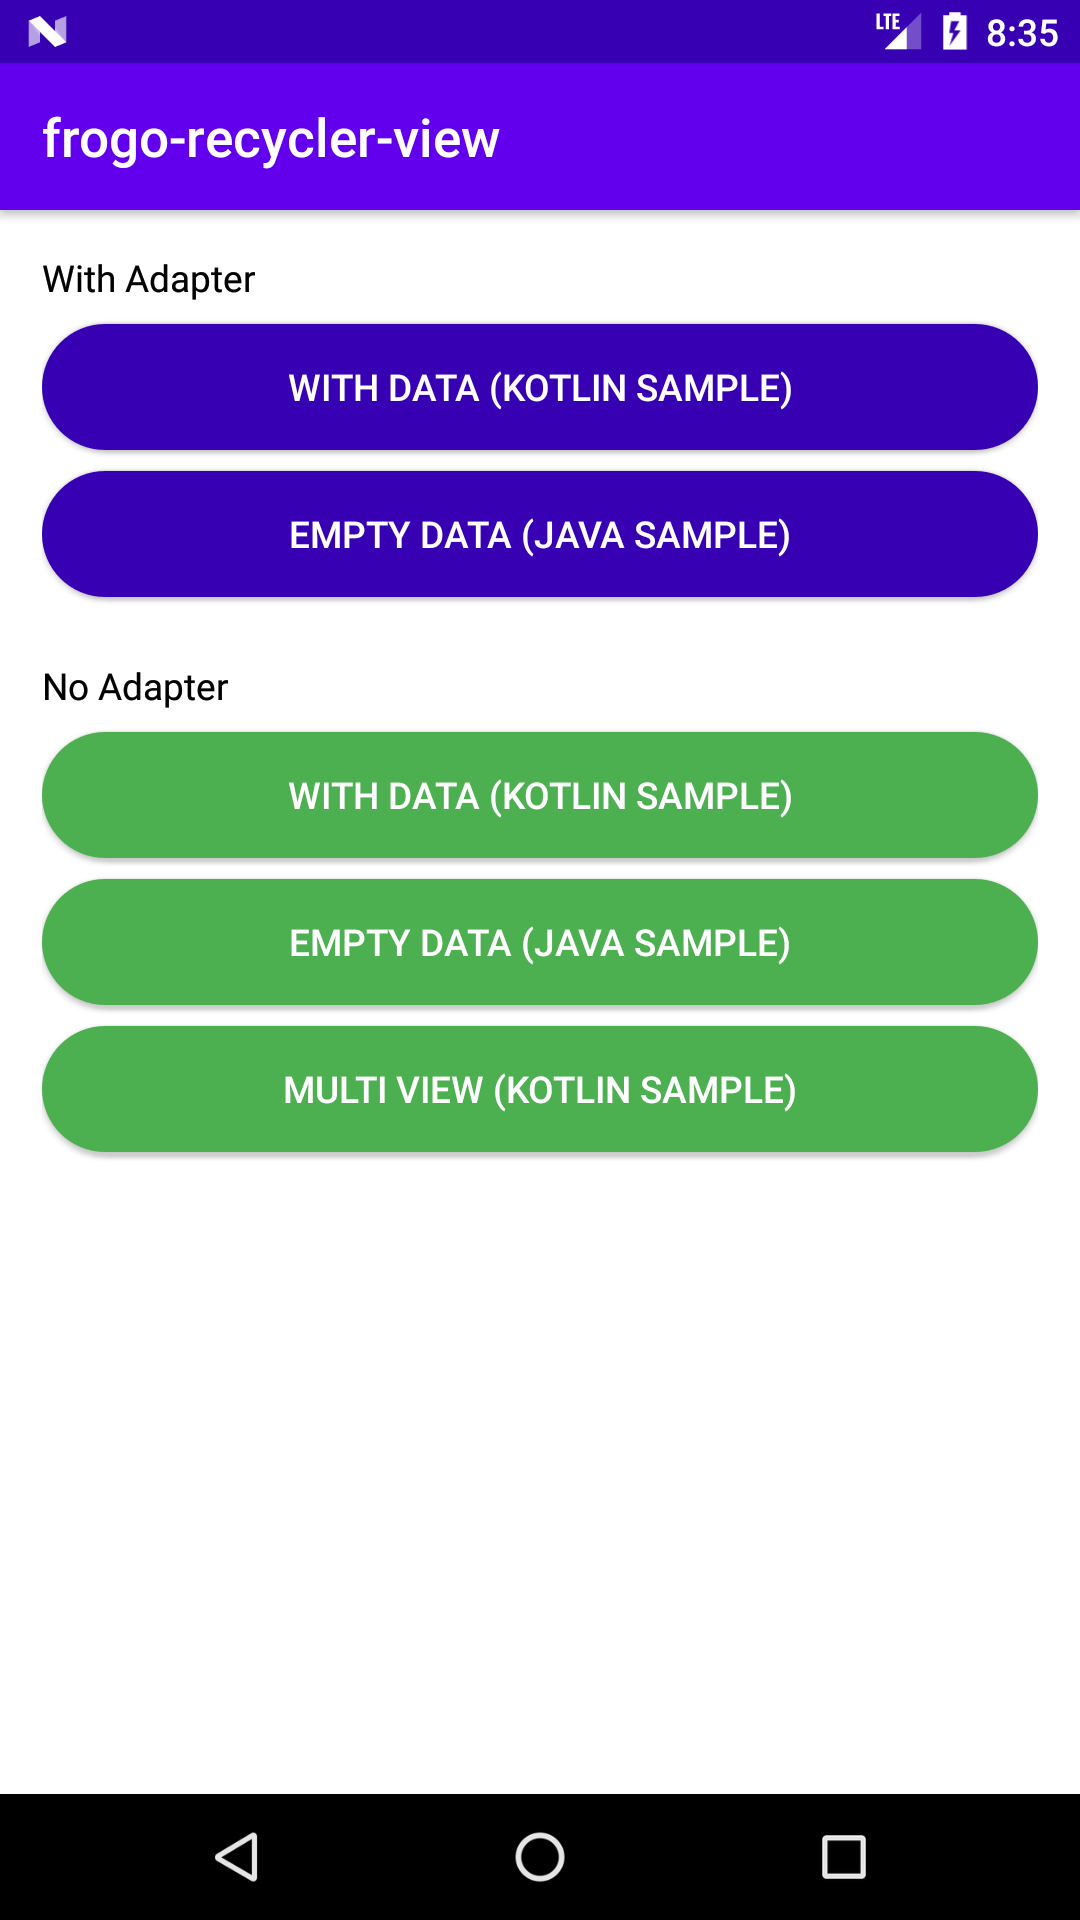
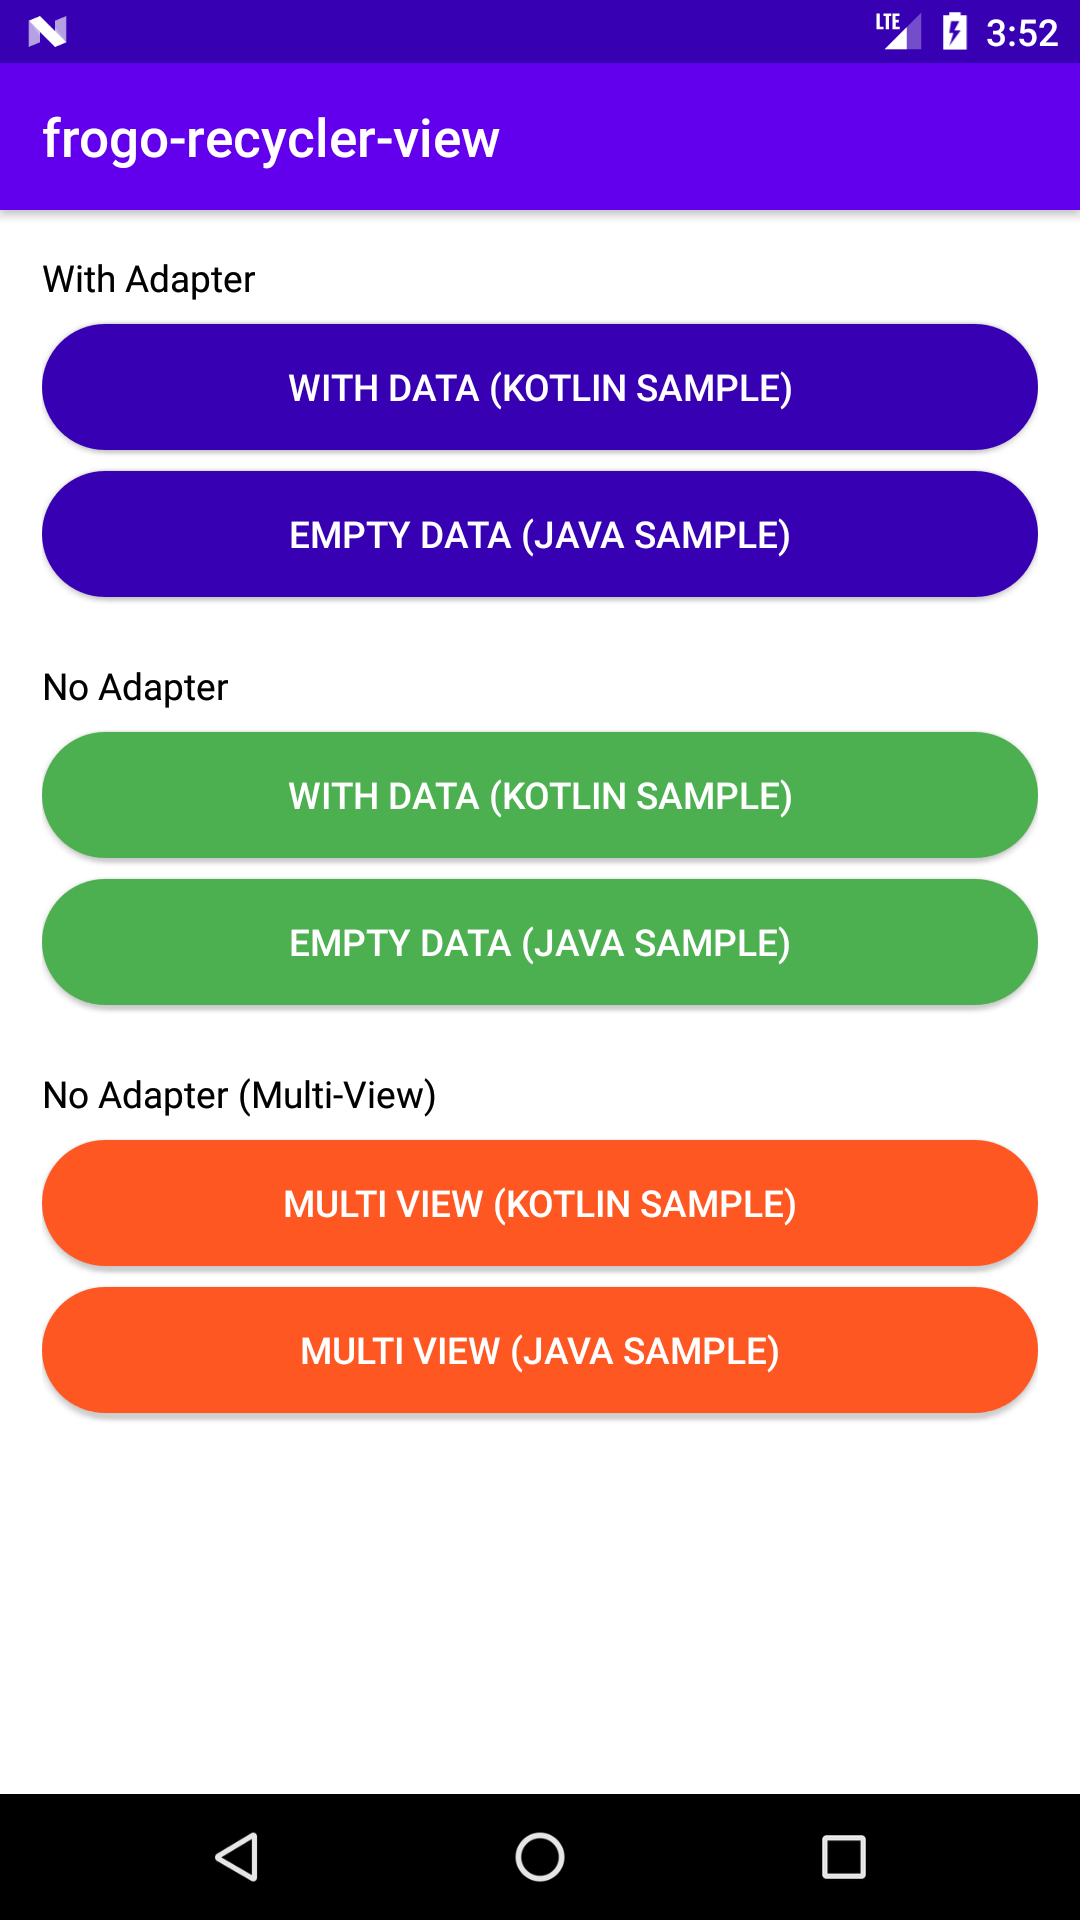
update: README.md

Changed region(s): [[0.0306, 0.5312, 0.9778, 0.75], [0.9472, 0.0, 0.9778, 0.0312]]

diff --git a/README.md b/README.md
@@ -59,64 +59,71 @@ Just following the step until finish, for basic adapter using step 2, for multi 
     	 	
 ### Step 2. Setup requirement (Basic Adapter)
 
-#### Kotlin (using injector singleton)
+#### Kotlin 
 
     private fun setupFrogoRecyclerView() {
+
+        val adapterCallback = object : FrogoAdapterCallback<ExampleModel> {
+            override fun setupInitComponent(view: View, data: ExampleModel) {
+                // Init component content item recyclerview
+                view.findViewById<TextView>(R.id.tv_example_item).text = data.name
+            }
+
+            override fun onItemClicked(data: ExampleModel) {
+                // setup item clicked on frogo recycler view
+                showToast(data.name)
+            }
+
+            override fun onItemLongClicked(data: ExampleModel) {
+                // setup item long clicked on frogo recycler view
+                showToast(data.name)
+            }
+        }
+
         frogo_recycler_view.injector<ExampleModel>()
             .addData(listData())
             .addCustomView(R.layout.frogo_rv_list_type_1)
-            .addCallback(object : FrogoAdapterCallback<ExampleModel> {
-                override fun setupInitComponent(view: View, data: ExampleModel) {
-                    // Init component content item recyclerview
-                    view.findViewById<TextView>(R.id.tv_example_item).text = data.name
-                }
-
-                override fun onItemClicked(data: ExampleModel) {
-                    // setup item clicked on frogo recycler view
-                    showToast(data.name)
-                }
-
-                override fun onItemLongClicked(data: ExampleModel) {
-                    // setup item long clicked on frogo recycler view
-                    showToast(data.name)
-                }
-            })
+            .addCallback(adapterCallback)
             .createLayoutLinearVertical(false)
             .createAdapter()
             .build(frogo_recycler_view)
     }
 
-#### Java
+#### Java 
 
     private void setupFrogoRecyclerView() {
         FrogoRecyclerView recyclerView = findViewById(R.id.frogo_recycler_view);
-        recyclerView.injectAdapter(
-                R.layout.frogo_rv_list_type_1, // layout item
-                listData(), // List data
-                R.layout.example_empty_view, // Layout empty view
-                new FrogoAdapterCallback<ExampleModel>() { // <T> model data name
-                    @Override
-                    public void setupInitComponent(@NotNull View view, ExampleModel data) {
-                        // Init component content item recyclerview
-                        TextView tvExample = view.findViewById(R.id.tv_example_item);
-                        tvExample.setText(data.getName());
-                    }
 
-                    @Override
-                    public void onItemClicked(ExampleModel data) {
-                        // setup item clicked on frogo recycler view
-                        Toast.makeText(JavaSampleNoAdapterActivity.this, data.getName(), Toast.LENGTH_SHORT).show();
-                    }
+        FrogoAdapterCallback frogoAdapterCallback = new FrogoAdapterCallback<ExampleModel>() {
+            @Override
+            public void setupInitComponent(@NotNull View view, ExampleModel data) {
+                // Init component content item recyclerview
+                TextView tvExample = view.findViewById(R.id.tv_example_item);
+                tvExample.setText(data.getName());
+            }
 
-                    @Override
-                    public void onItemLongClicked(ExampleModel data) {
-                        // setup item long clicked on frogo recycler view
-                        Toast.makeText(JavaSampleNoAdapterActivity.this, data.getName(), Toast.LENGTH_SHORT).show();
-                    }
-                });
-        recyclerView.isViewLinearVertical(false);
-    }
-    	
+            @Override
+            public void onItemClicked(ExampleModel data) {
+                // setup item clicked on frogo recycler view
+                showToast(data.getName());
+            }
+
+            @Override
+            public void onItemLongClicked(ExampleModel data) {
+                // setup item long clicked on frogo recycler view
+                showToast(data.getName());
+            }
+        };
+
+        recyclerView.injector()
+                .addData(listData())
+                .addCustomView(R.layout.frogo_rv_list_type_1)
+                .addCallback(frogoAdapterCallback)
+                .createLayoutLinearVertical(false)
+                .createAdapter()
+                .build(recyclerView);
+
+    }    	
     	
     	
 ### Step 3. Setup requirement (Multi Adapter)
@@ -165,6 +172,55 @@ Just following the step until finish, for basic adapter using step 2, for multi 
             .build(frogo_recycler_view)
     }
 
+#### Java 
+
+    private void setupFrogoRecyclerView() {
+        FrogoRecyclerView frogoRecyclerView = findViewById(R.id.frogo_recycler_view);
+
+        frogoRecyclerView.injectMultiAdapter(
+                listData(),
+                listLayout(),
+                listOption(),
+                null,
+                new FrogoMultiAdapterCallback<ExampleModel>() {
+
+                    @Override
+                    public void setupFirstInitComponent(@NotNull View view, ExampleModel data) {
+                        TextView tvExampleItem = findViewById(R.id.tv_example_item);
+                        tvExampleItem.setText(data.getName());
+                    }
+
+                    @Override
+                    public void onFirstItemClicked(ExampleModel data) {
+                        showToast(data.getName() + " 1");
+                    }
+
+                    @Override
+                    public void onFirstItemLongClicked(ExampleModel data) {
+                        showToast(data.getName() + " First");
+                    }
+
+                    @Override
+                    public void setupSecondInitComponent(@NotNull View view, ExampleModel data) {
+                        TextView tvExampleItem = findViewById(R.id.tv_example_item);
+                        tvExampleItem.setText(data.getName());
+                    }
+
+                    @Override
+                    public void onSecondItemClicked(ExampleModel data) {
+                        showToast(data.getName() + " 2");
+                    }
+
+                    @Override
+                    public void onSecondItemLongClicked(ExampleModel data) {
+                        showToast(data.getName() + " Second");
+                    }
+                }
+        );
+        frogoRecyclerView.isViewLinearVertical(false);
+
+    }
+
 # Sample Code 
 ## No Adapter
 - Kotlin - https://github.com/amirisback/frogo-recycler-view/blob/master/app/src/main/java/com/frogobox/recycler/kotlinsample/KotlinNoAdapterActivity.kt
@@ -172,9 +228,9 @@ Just following the step until finish, for basic adapter using step 2, for multi 
 
 ## No Adapter (Multi-type-view)
 - Kotlin - https://github.com/amirisback/frogo-recycler-view/blob/master/app/src/main/java/com/frogobox/recycler/kotlinsample/KotlinNoAdapterMultiVewActivity.kt
-- Java - Coming soon
+- Java - https://github.com/amirisback/frogo-recycler-view/blob/master/app/src/main/java/com/frogobox/recycler/javasample/JavaNoAdapterMultiViewActivity.java
 
-## With Adapter
+## With Adapter (Some function deprecated)
 - Kotlin - https://github.com/amirisback/frogo-recycler-view/tree/master/app/src/main/java/com/frogobox/recycler/kotlinsample/usingadapter
 - Java - https://github.com/amirisback/frogo-recycler-view/tree/master/app/src/main/java/com/frogobox/recycler/javasample/usingadapter
 
